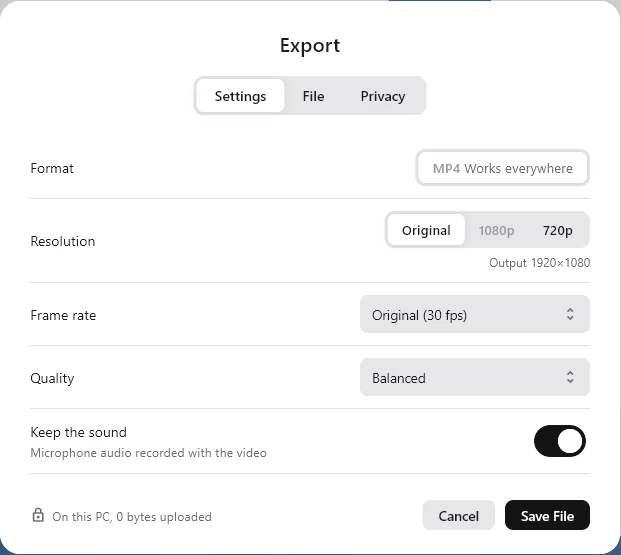
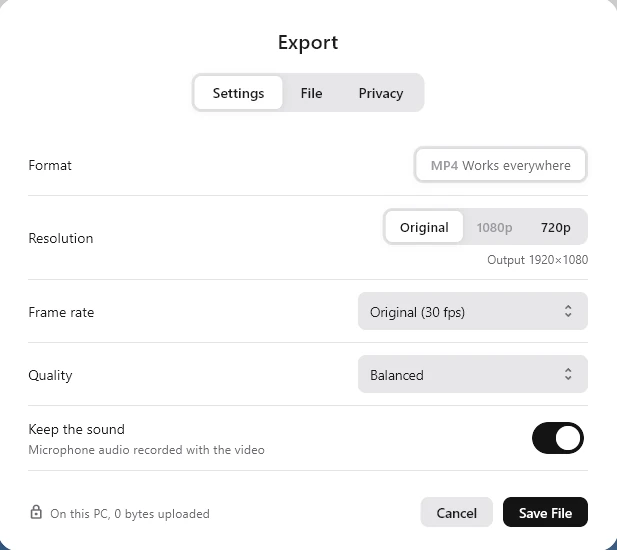
Landing: tighter Export dialog crop
Claude-Session: https://claude.ai/code/session_01FrdMRL46zofgv4R88VEHLx

diff --git a/landing/index.html b/landing/index.html
@@ -442,7 +442,7 @@ footer{background:var(--ink);color:#C9CDD3;padding:72px 0 0;overflow:hidden}
         </ul>
       </div>
       <div class="demo d-export reveal" data-delay="1">
-        <div class="float card" style="width:min(380px,70%)"><img src="/assets/real/crop-export.webp" width="621" height="555" alt="The Export dialog: format, resolution, frame rate, quality and keep the sound"></div>
+        <div class="float card" style="width:min(380px,70%)"><img src="/assets/real/crop-export.webp" width="617" height="550" alt="The Export dialog: format, resolution, frame rate, quality and keep the sound"></div>
       </div>
     </div>
   </div>
